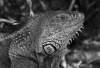
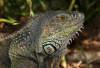
debug

diff --git a/app/templates/arbitration.html b/app/templates/arbitration.html
@@ -1,68 +1,68 @@
 <!DOCTYPE html>
 <html>
-<head>
-	<title>Arbitration Page</title>
-	<style>
-		nav {
-			display: flex;
-			justify-content: space-between;
-			align-items: center;
-			background-color: #333;
-			color: white;
-			padding: 10px;
-		}
+  <head>
+    <title>Arbitration Page</title>
+    <style>
+      nav {
+        display: flex;
+        justify-content: space-between;
+        align-items: center;
+        background-color: #333;
+        color: white;
+        padding: 10px;
+      }
 
-		nav a {
-			color: white;
-			text-decoration: none;
-			margin: 0 10px;
-			font-size: 20px;
-		}
+      nav a {
+        color: white;
+        text-decoration: none;
+        margin: 0 10px;
+        font-size: 20px;
+      }
 
-		button {
-			margin: 10px;
-			padding: 5px 10px;
-			border-radius: 5px;
-			background-color: #333;
-			color: white;
-			border: none;
-			cursor: pointer;
-		}
+      button {
+        margin: 10px;
+        padding: 5px 10px;
+        border-radius: 5px;
+        background-color: #333;
+        color: white;
+        border: none;
+        cursor: pointer;
+      }
 
-		form {
-			display: flex;
-			flex-direction: column;
-			align-items: center;
-			margin: 50px;
-		}
+      form {
+        display: flex;
+        flex-direction: column;
+        align-items: center;
+        margin: 50px;
+      }
 
-		input[type=file] {
-			margin: 20px;
-		}
+      input[type="file"] {
+        margin: 20px;
+      }
 
-		input[type=submit] {
-			padding: 5px 10px;
-			border-radius: 5px;
-			background-color: #333;
-			color: white;
-			border: none;
-			cursor: pointer;
-		}
-	</style>
-</head>
-<body>
-	<nav>
-		<div>
-			<a href="#">Home</a>
-			<a href="#">Arbitration</a>
-		</div>
-		<button>Log into Metamask account</button>
-	</nav>
+      input[type="submit"] {
+        padding: 5px 10px;
+        border-radius: 5px;
+        background-color: #333;
+        color: white;
+        border: none;
+        cursor: pointer;
+      }
+    </style>
+  </head>
+  <body>
+    <nav>
+      <div>
+        <a href="/">Home</a>
+        <a href="/arbitration">Arbitration</a>
+      </div>
+      <button>Log into Metamask account</button>
+    </nav>
 
-	<form action="/arbitrate" method="post">
-		<label for="file-input">Choose a file:</label>
-		<input type="file" id="file-input" name="file-input"><br>
-		<input type="submit" value="Arbitrate">
-	</form>
-</body>
+    <form action="/arbitrate" method="post">
+      <label for="file-input">Choose a file:</label>
+      <input type="file" id="file-input" name="file-input" /><br />
+      <input type="submit" value="Arbitrate" />
+    </form>
+  </body>
 </html>

diff --git a/app/templates/index.html b/app/templates/index.html
@@ -12,14 +12,14 @@
         color: white;
         padding: 10px;
       }
-  
+
       nav a {
         color: white;
         text-decoration: none;
         margin: 0 10px;
         font-size: 20px;
       }
-  
+
       button {
         margin: 10px;
         padding: 5px 10px;
@@ -29,19 +29,19 @@
         border: none;
         cursor: pointer;
       }
-  
+
       form {
         display: flex;
         flex-direction: column;
         align-items: center;
         margin: 50px;
       }
-  
-      input[type=file] {
+
+      input[type="file"] {
         margin: 20px;
       }
-  
-      input[type=submit] {
+
+      input[type="submit"] {
         padding: 5px 10px;
         border-radius: 5px;
         background-color: #333;
@@ -49,9 +49,9 @@
         border: none;
         cursor: pointer;
       }
-      #submitBtn{
-        padding:0.5em 1em;
-        font-size:1.5em;
+      #submitBtn {
+        padding: 0.5em 1em;
+        font-size: 1.5em;
       }
     </style>
   </head>
@@ -164,6 +164,14 @@
       }
 
       window.addEventListener("DOMContentLoaded", () => {
+        axios
+          .get("http://127.0.0.1:5000/api/wallet")
+          .then((res) => {
+            console.log(res);
+          })
+          .catch((err) => {
+            console.log(err);
+          });
         checkInstalled();
       });
     </script>

diff --git a/app/__init__.py b/app/__init__.py
@@ -133,7 +133,7 @@ def hello_world():
             #         return "equal images, cant upload, bye bye - here is the link of image you wanted"
             #     else:
             #         return "equal images, but different signatures, so cant upload cos you ripped someone off"
-            if comparison_metric <= 32:
+            if comparison_metric <= 25:
                 if len(lines) > 0:
                     cm_dict = read_file(lines)
                     verify_flag = verify_commitment(cm_dict)
@@ -226,6 +226,11 @@ def download_image():
     filename = request.form['img_name']
     directory = './dataStorage'
     return send_file(os.path.join(directory, filename))
+
+
+@app.route('/arbitration', methods=['GET', 'POST'])
+def arbitration():
+    return render_template('arbitration.html')
 
 
 if __name__ == '__main__':
